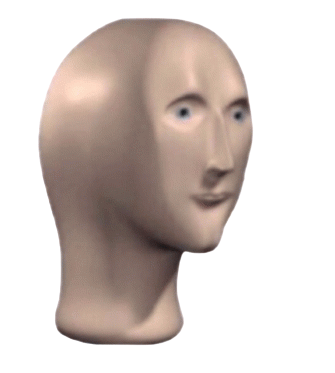
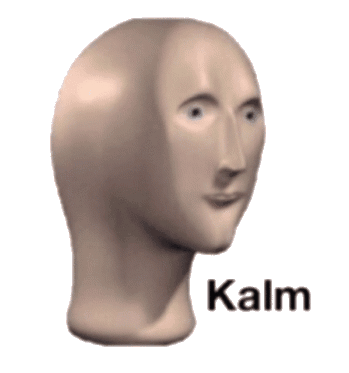
fix: images size

diff --git a/dist/extension.js b/dist/extension.js
@@ -52,7 +52,9 @@ const DEFAULT_CSS = objectToCssString({
     ['pointer-events']: 'none',
     ["text-align"]: "right",
 });
-const imgUrl = "https://raw.githubusercontent.com/S-Nuttapong/co-panik/main/assets/panik-loop.gif";
+const panikImg = "https://raw.githubusercontent.com/S-Nuttapong/co-panik/main/assets/panik.gif";
+const kalmImg = "https://raw.githubusercontent.com/S-Nuttapong/co-panik/main/assets/kalm.png";
+const imgs = [kalmImg, panikImg];
 // const a: Style = {
 // 	backgroundSize: 
 // 	'
@@ -61,7 +63,7 @@ const R = 1 / 2;
 const H = 50;
 const getHeight = (h) => `${h}vh`;
 const getWidth = (h) => `${h * R}vh`;
-const bgImgCss = objectToCssString({
+const bgImgCss = (imgUrl) => objectToCssString({
     width: getWidth(H),
     height: getHeight(H),
     "background-repeat": 'no-repeat',
@@ -86,15 +88,35 @@ function onDidChangeTextDocument(event) {
 let hasDec = false;
 let yScrollPos = NaN;
 function activate(context) {
-    const decoration = vscode.window.createTextEditorDecorationType({
-        // Title and Count cannot use the same pseudoelement
-        before: {
-            contentText: "",
-            color: "#fff",
-            textDecoration: `none; ${DEFAULT_CSS} ${bgImgCss}`,
-        },
-        rangeBehavior: vscode.DecorationRangeBehavior.ClosedClosed,
-    });
+    const initDecorationTypeFN = () => {
+        let img = kalmImg;
+        let decoration = vscode.window.createTextEditorDecorationType({
+            // Title and Count cannot use the same pseudoelement
+            before: {
+                contentText: "",
+                color: "#fff",
+                textDecoration: `none; ${DEFAULT_CSS} ${bgImgCss(img)}`,
+            },
+            rangeBehavior: vscode.DecorationRangeBehavior.ClosedClosed,
+        });
+        return (imgUrl) => {
+            if (imgUrl !== img) {
+                img = imgUrl;
+                decoration.dispose();
+                decoration = vscode.window.createTextEditorDecorationType({
+                    // Title and Count cannot use the same pseudoelement
+                    before: {
+                        contentText: "",
+                        color: "#fff",
+                        textDecoration: `none; ${DEFAULT_CSS} ${bgImgCss(img)}`,
+                    },
+                    rangeBehavior: vscode.DecorationRangeBehavior.ClosedClosed,
+                });
+            }
+            return decoration;
+        };
+    };
+    const getDecorationType = initDecorationTypeFN();
     const updateYScrollPosition = (start) => {
         yScrollPos = start._line;
     };
@@ -107,13 +129,13 @@ function activate(context) {
         const firstVisibleRange = editor.visibleRanges.sort()[0];
         const { _start } = firstVisibleRange;
         const position = firstVisibleRange.start;
-        if (isScrolling(_start)) {
-            console.debug('updating panik man');
-            const ranges = [new vscode.Range(position, position)];
-            editor.setDecorations(decoration, ranges);
-            updateYScrollPosition(_start);
-        }
-        return;
+        if (!isScrolling(_start))
+            return;
+        const img = imgs[Math.round(Math.random())];
+        const decoration = getDecorationType(img);
+        const ranges = [new vscode.Range(position, position)];
+        editor.setDecorations(decoration, ranges);
+        updateYScrollPosition(_start);
     };
     initPanik();
     // vscode.workspace.onDidChangeTextDocument(initPanik)

diff --git a/src/extension.ts b/src/extension.ts
@@ -25,8 +25,11 @@ const DEFAULT_CSS = objectToCssString({
 	["text-align"]: "right",
 });
 
-const imgUrl = "https://raw.githubusercontent.com/S-Nuttapong/co-panik/main/assets/panik-loop.gif"
+const panikImg = "https://raw.githubusercontent.com/S-Nuttapong/co-panik/main/assets/panik.gif"
 
+const kalmImg = "https://raw.githubusercontent.com/S-Nuttapong/co-panik/main/assets/kalm.png"
+
+const imgs = [kalmImg, panikImg]
 
 // const a: Style = {
 // 	backgroundSize: 
@@ -42,7 +45,7 @@ const getHeight = (h: number) => `${h}vh`
 const getWidth = (h: number) => `${h * R}vh`
 
 
-const bgImgCss = objectToCssString({
+const bgImgCss = (imgUrl: string) => objectToCssString({
 	width: getWidth(H),
 	height: getHeight(H),
 	"background-repeat": 'no-repeat',
@@ -72,15 +75,38 @@ let hasDec = false
 let yScrollPos: number = NaN
 
 export function activate(context: vscode.ExtensionContext) {
-	const decoration = vscode.window.createTextEditorDecorationType({
-		// Title and Count cannot use the same pseudoelement
-		before: {
-			contentText: "",
-			color: "#fff",
-			textDecoration: `none; ${DEFAULT_CSS} ${bgImgCss}`,
-		},
-		rangeBehavior: vscode.DecorationRangeBehavior.ClosedClosed,
-	})
+
+	const initDecorationTypeFN = () => {
+		let img = kalmImg
+		let decoration = vscode.window.createTextEditorDecorationType({
+			// Title and Count cannot use the same pseudoelement
+			before: {
+				contentText: "",
+				color: "#fff",
+				textDecoration: `none; ${DEFAULT_CSS} ${bgImgCss(img)}`,
+			},
+			rangeBehavior: vscode.DecorationRangeBehavior.ClosedClosed,
+		})
+
+		return (imgUrl: string) => {
+			if (imgUrl !== img) {
+				img = imgUrl
+				decoration.dispose()
+				decoration = vscode.window.createTextEditorDecorationType({
+					// Title and Count cannot use the same pseudoelement
+					before: {
+						contentText: "",
+						color: "#fff",
+						textDecoration: `none; ${DEFAULT_CSS} ${bgImgCss(img)}`,
+					},
+					rangeBehavior: vscode.DecorationRangeBehavior.ClosedClosed,
+				})
+			}
+			return decoration
+		}
+	}
+
+	const getDecorationType = initDecorationTypeFN()
 
 	const updateYScrollPosition = (start: any) => {
 		yScrollPos = start._line
@@ -98,14 +124,13 @@ export function activate(context: vscode.ExtensionContext) {
 		const { _start } = firstVisibleRange
 		const position = firstVisibleRange.start;
 
-		if (isScrolling(_start)) {
-			console.debug('updating panik man')
-			const ranges = [new vscode.Range(position, position)];
-			editor.setDecorations(decoration, ranges)
-			updateYScrollPosition(_start)
-		}
+		if (!isScrolling(_start)) return
 
-		return
+		const img = imgs[Math.round(Math.random())]
+		const decoration = getDecorationType(img)
+		const ranges = [new vscode.Range(position, position)];
+		editor.setDecorations(decoration, ranges)
+		updateYScrollPosition(_start)
 	}
 
 	initPanik()
